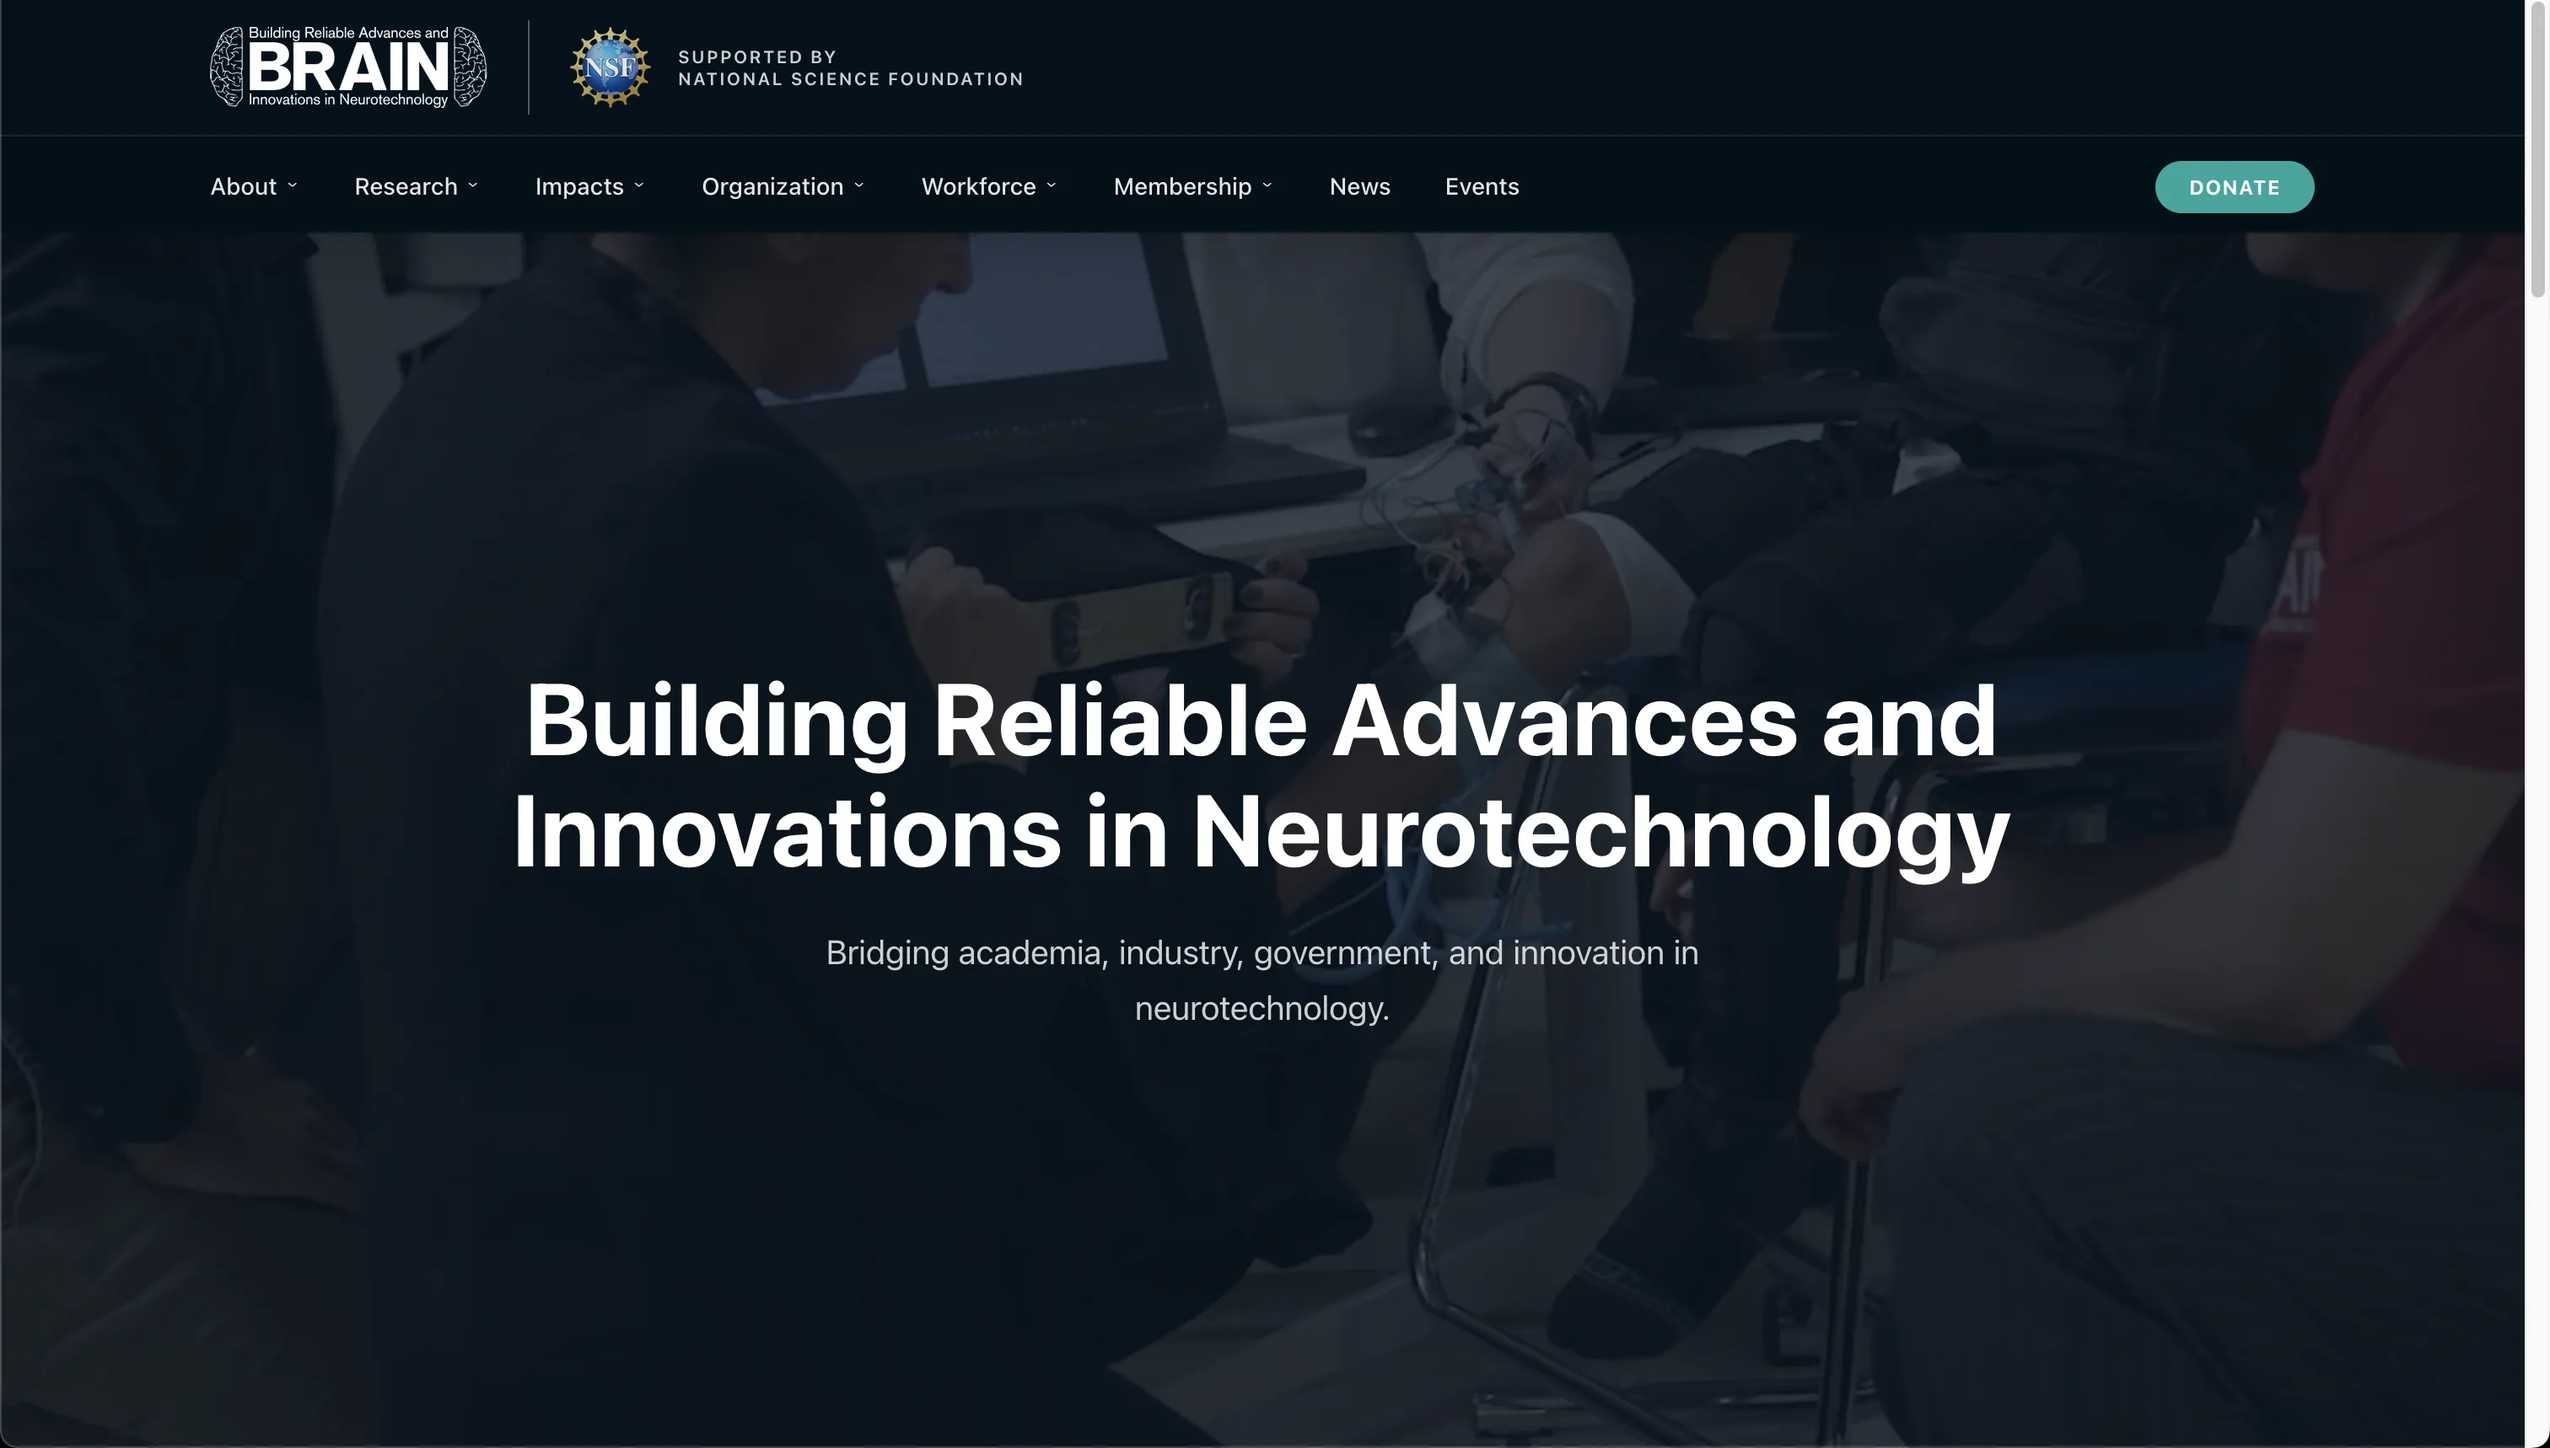
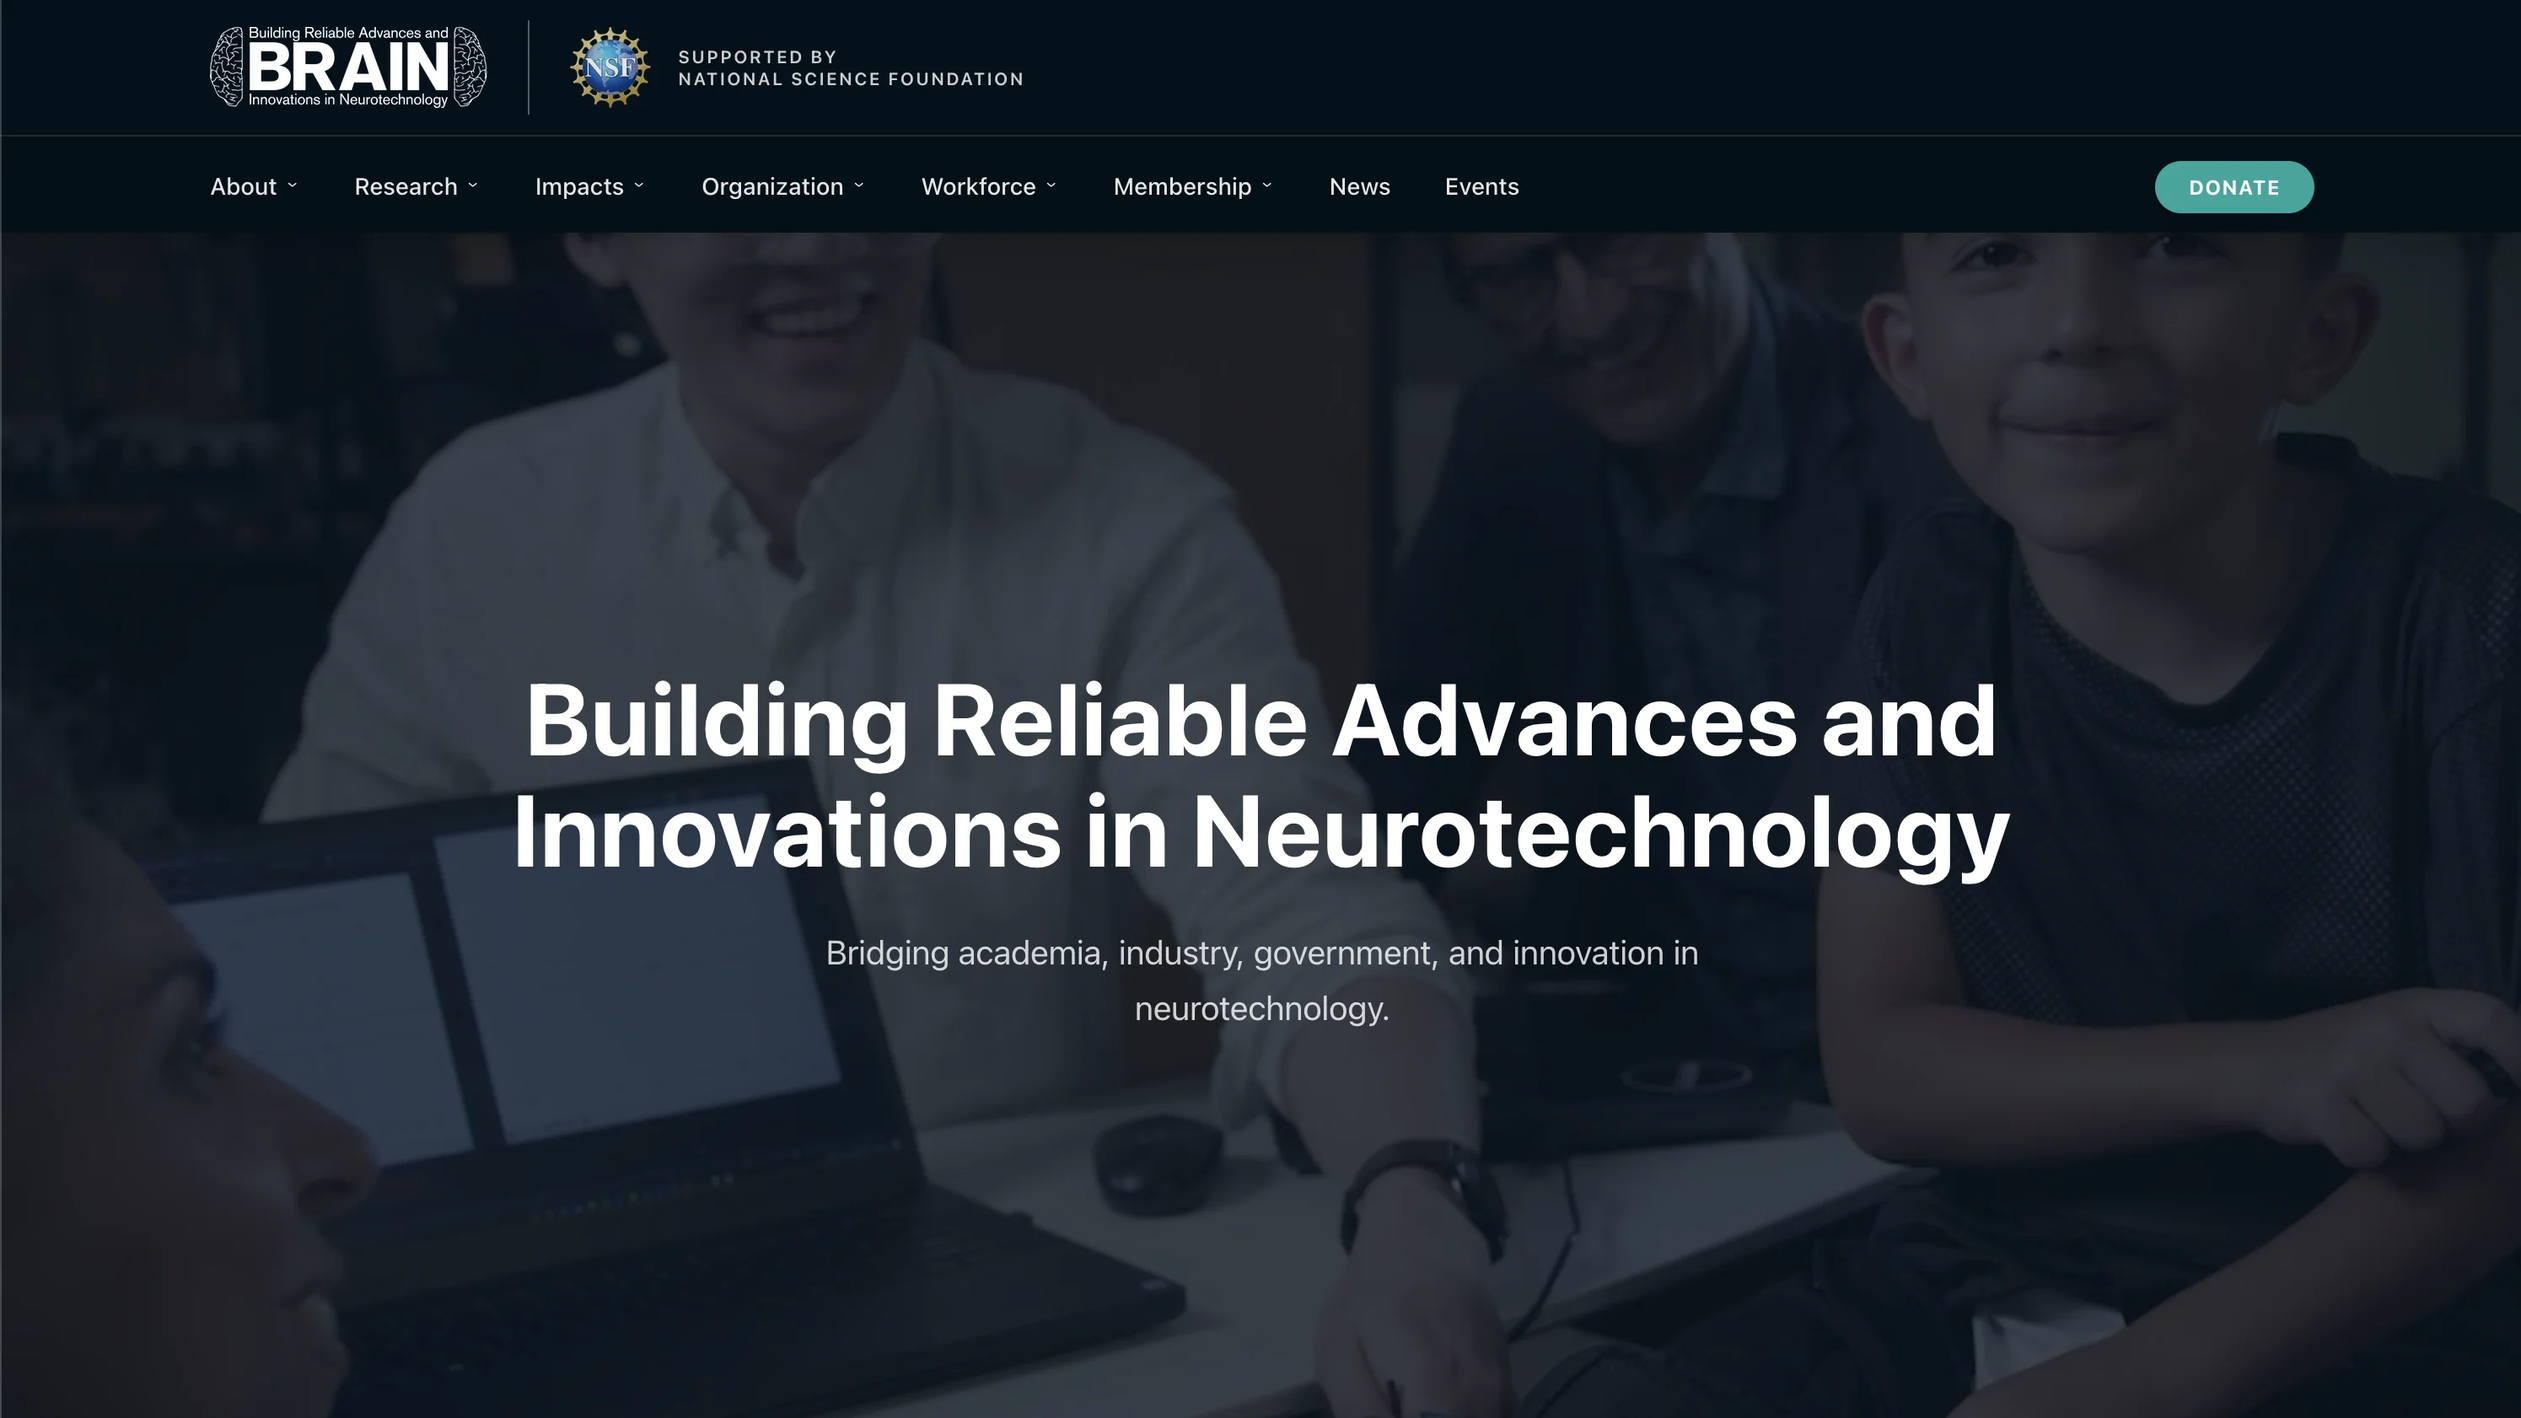
fix(content): update BRAIN Center project description and refresh webp
- Rewrite description to match "A [thing]..." pattern of other cards
- Regenerate brain-web.webp from updated screenshot

diff --git a/src/App.jsx b/src/App.jsx
@@ -34,7 +34,7 @@ function Home() {
     {
       image: '/projects/brain-web.webp',
       title: 'The BRAIN Center Website',
-      description: 'Redesigned an NSF research center\'s website, migrating from legacy Wordpress to a modern Next.js stack',
+      description: 'A full website redesign for an NSF neurotechnology research center, migrating from WordPress to a modern Next.js stack and shipped to production',
       githubLink: 'https://github.com/alehxs/brain-web',
       websiteLink: 'https://nsfbrain.org/'
     },
